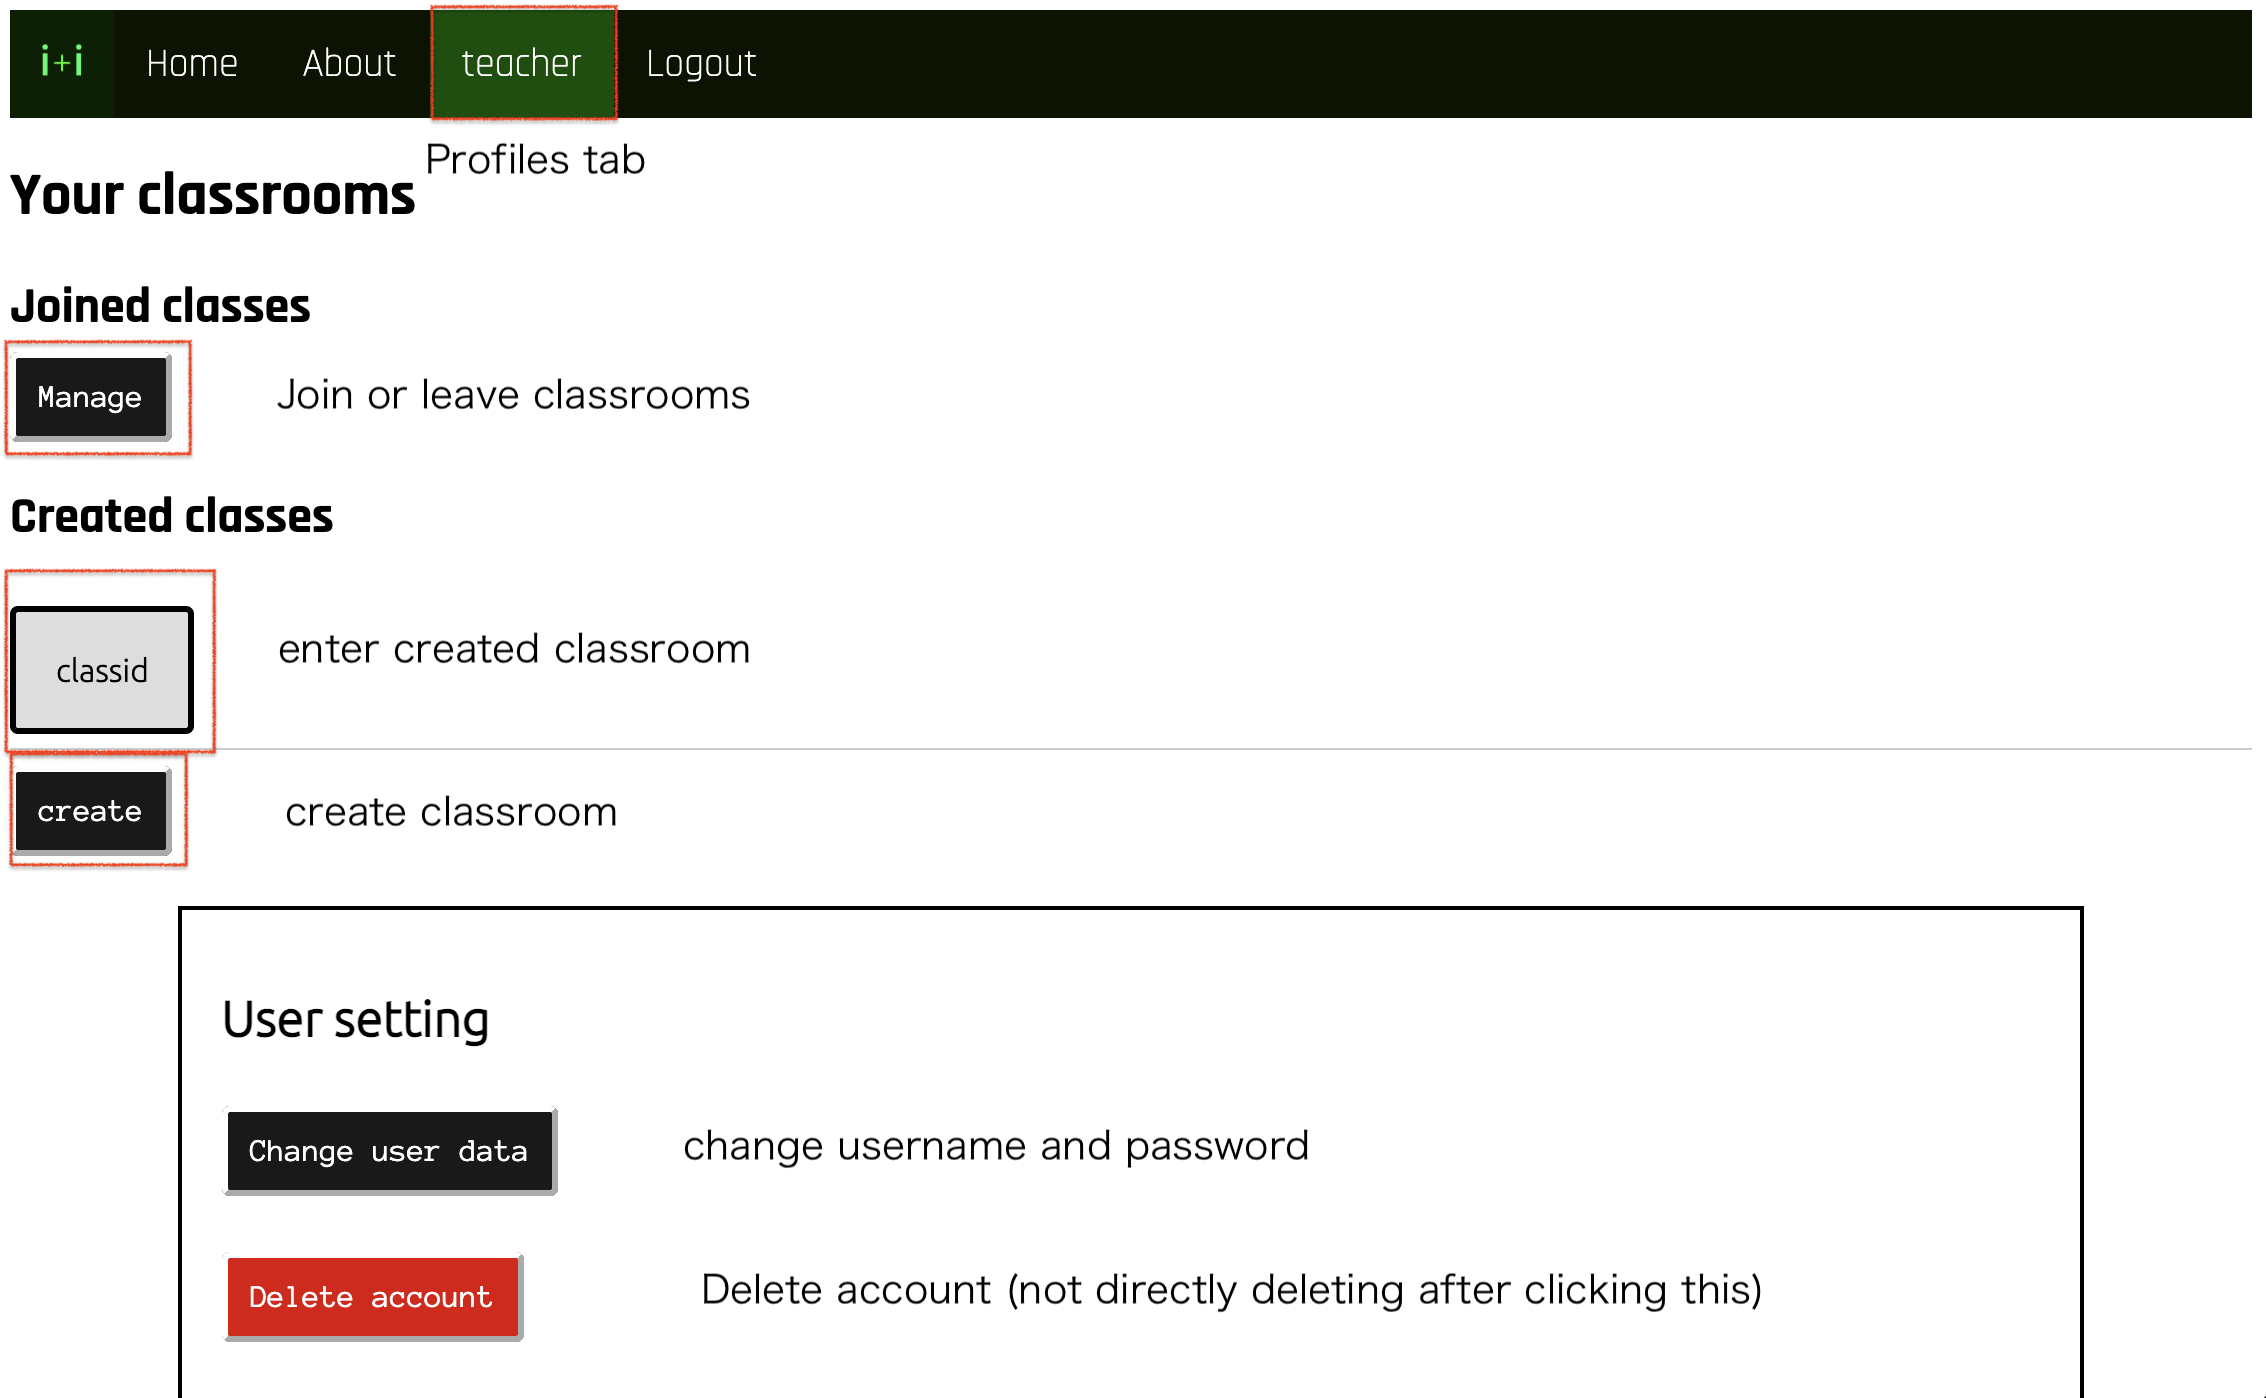
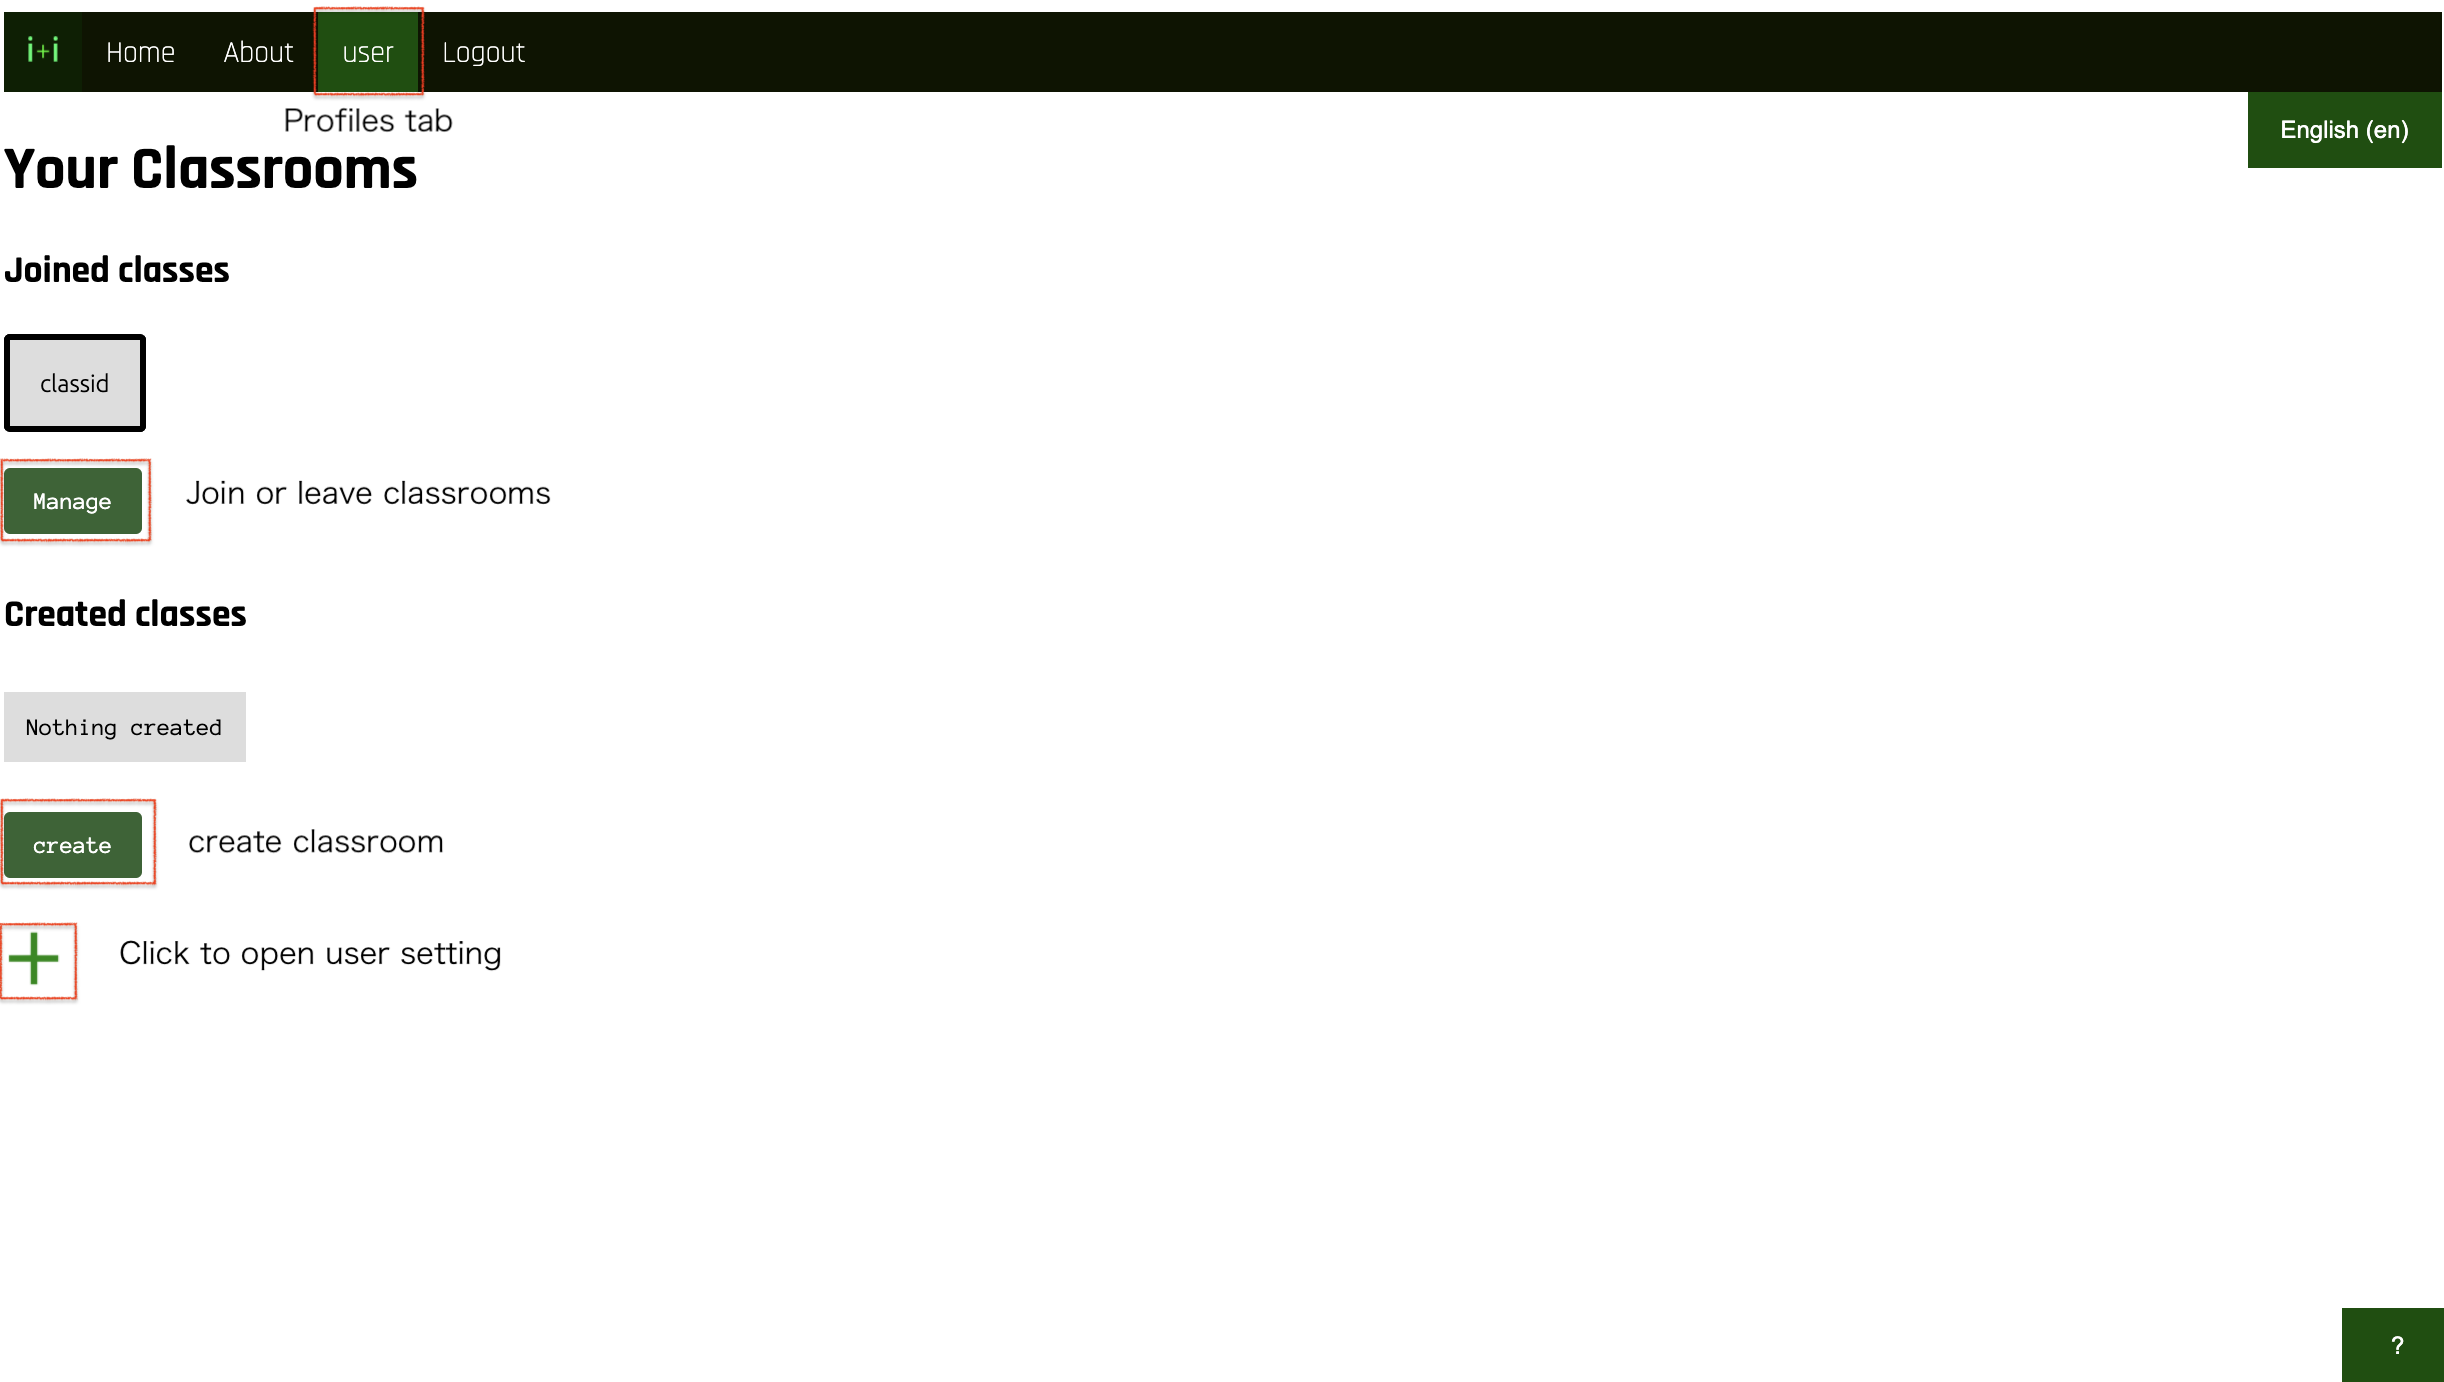
update manual

diff --git a/grouping_serv/apps/accounts/static/styles.css b/grouping_serv/apps/accounts/static/styles.css
@@ -24,11 +24,11 @@ select {
 
 h1 {
   font-family: Ubuntu;
-  font-size:min(4vw, 30px);
+  font-size:min(6vw, 40px);
 }
 h2 {
   font-family: Ubuntu;
-  font-size:min(4vw, 25px);
+  font-size:min(4.5vw, 25px);
 }
 h3 {
   font-family: Ubuntu;
@@ -46,7 +46,7 @@ input[type=submit] {
   height: auto;
   background-color: rgb(50, 100, 50);
   color: white;
-  padding: 14px 20px;
+  padding: min(14px, 2vw) 20px;
   margin: 8px 0;
   border: none;
   border-radius: 4px;
@@ -75,7 +75,7 @@ input[type=submit]:disabled {
 header {
   padding: 10px;
   text-align: center;
-  font-size: font-size:min(5vw, 40px);;
+  font-size: font-size:min(5vw, 40px);
 }
 
 
@@ -102,12 +102,12 @@ button[type=submit]:hover {
 
 
 .navbar a {
-    font-family: Rajdhani;
+    font-family: Noto Sans TC;
     float: left;
     font-size: min(4.5vw, 20px);
     color: white;
     text-align: center;
-    padding: 14px 16px;
+    padding: min(4.5vw, 17px) min(4.5vw, 20px);
     text-decoration: none;
 }
 .logo:hover {
@@ -122,9 +122,17 @@ button[type=submit]:hover {
   margin-right: auto;
 }
 
-.navbar a:hover, .dropdown:hover .dropbtn {
-  background-color: rgb(43 202 0);
-  box-shadow: 0 0 10px rgb(0 255 0 / 100%);
+.navbar a:hover {
+  background-color: rgb(54 255 0);
+  color: black;
+  box-shadow: 0 0 20px rgb(0 255 0 / 100%);
+  transition: 0.2s;
+}
+
+.dropdown:hover .dropbtn {
+  background-color: rgb(54 255 0);
+  box-shadow: 0 0 20px rgb(0 255 0 / 100%);
+  transition: 0.1s;
 }
 
 .username {
@@ -133,20 +141,67 @@ button[type=submit]:hover {
 
 
 .link {
-    font-size: 16px;
-    text-align: center;
-    border-style: outset;
-    padding: 1vw 1vw;
-    text-decoration: none;
-    color: white;
-    background-color: rgb(25 25 25 / 1);
-    border-radius: 4px;
+  width: 10vw;
+  min-width: 90px;
+  height: auto;
+  background-color: rgb(50, 100, 50);
+  color: white;
+  padding: min(14px, 2vw) 20px;
+  margin: 8px 0;
+  border: none;
+  border-radius: 4px;
+  cursor: pointer;
+  text-align: center;
+  text-decoration: none;
 }
 
 .link:hover {
-    background-color: rgb(0, 0, 0);
-    width: 125px;
-    border-style: inset;
+    width: 10vw;
+    min-width: 90px;
+    height: auto;
+    filter: brightness(1.5);
+    color: white;
+    padding: 14px 20px;
+    margin: 8px 0;
+    border: none;
+    border-radius: 4px;
+    cursor: pointer;
+    text-align: center;
+    background-color: rgb(33 154 0);
+    color: black;
+    box-shadow: 0 0 20px rgb(0 255 0 / 100%);
+    transition: 0.2s;
+}
+
+.negative_link {
+  width: 10vw;
+  min-width: 90px;
+  height: auto;
+  background-color: rgb(221 1 2);
+  color: white;
+  padding: 14px 20px;
+  margin: 8px 0;
+  border: none;
+  border-radius: 4px;
+  cursor: pointer;
+  text-align: center;
+  text-decoration: none;
+}
+
+.negative_link:hover {
+    width: 10vw;
+    min-width: 90px;
+    height: auto;
+    background-color: rgb(255 119 119)1)1);
+    color: black;
+    padding: 14px 20px;
+    margin: 8px 0;
+    border: none;
+    border-radius: 4px;
+    cursor: pointer;
+    text-align: center;
+    box-shadow: 0 0 20px rgb(255 0 0);
+    transition: 0.2s;
 }
 
 .ui {
@@ -277,4 +332,59 @@ to { text-decoration: none;
   padding: 2px 16px;
   background-color: rgb(12, 20, 0);
   color: white;
+}
+.hiding_button:hover {
+  filter:brightness(1.5);
+}
+
+.box {
+  font-size:4em;
+  height: 60px;
+width: 60px;
+align-items: center;
+margin: 4px;
+font-weight: 700;
+border-radius: 4px;
+display: flex;
+justify-content: center;
+flex-wrap: wrap;
+
+}
+.arrow {
+  border: solid black;
+  border-width: 0 3px 3px 0;
+  display: inline-block;
+  padding: 3px;
+}
+
+.right {
+  transform: rotate(-45deg);
+  -webkit-transform: rotate(-45deg);
+}
+
+.left {
+  transform: rotate(135deg);
+  -webkit-transform: rotate(135deg);
+}
+
+.up {
+  transform: rotate(-135deg);
+  -webkit-transform: rotate(-135deg);
+}
+
+.down {
+  transform: rotate(45deg);
+  -webkit-transform: rotate(45deg);
+}
+#stage{
+padding:10vh, 10vh;
+width: 100%;
+display: flex;
+justify-content: center;
+align-items: center;
+
+}
+#underline {
+transition: transform 0.3s ease-out;
+margin: auto;
 }
